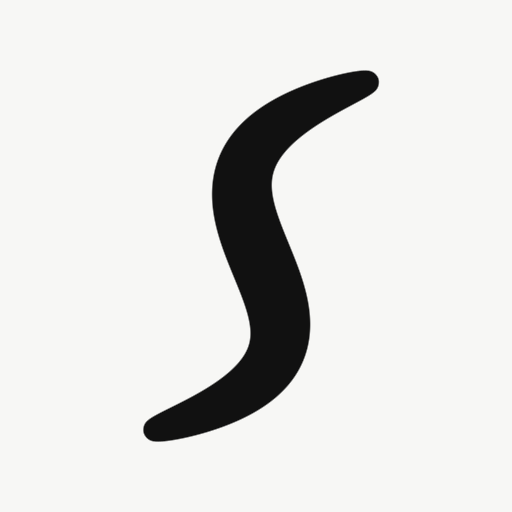
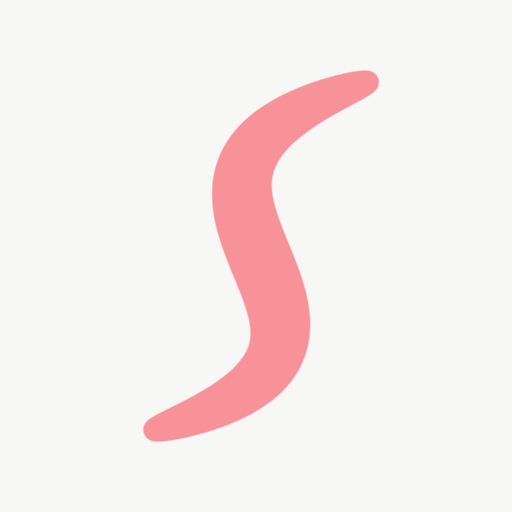
アクセントをサーモンピンクにする
- 塗り用 #fca9a2 と文字用 #d4707a の2段階に分けた。淡いサーモンをそのまま
  白地の13px文字に使うと読めないため、文字だけ濃い方を使う
- 煉瓦色に寄らないよう、候補5色を実際に並べて比較してから決めた
- 「達成」の緑もくすませて、サーモンと並んでも騒がしくないようにした
- アプリアイコンもサーモンに

Claude-Session: https://claude.ai/code/session_01U1GppSiCoRYH4e3neKKSCn

Changed region(s): [[0.2812, 0.125, 0.75, 0.875]]

diff --git a/css/styles.css b/css/styles.css
@@ -23,10 +23,11 @@
   --accent-dim: #c9c9c3;
   --cta-bg: #111111;
   --cta-ink: #ffffff;
-  --brand: #ff4fb8;           /* 小さく差す色 */
-  --mint: #17c79a;
+  --brand: #fca9a2;           /* 塗りに使う淡いサーモンピンク */
+  --brand-ink: #d4707a;       /* 文字に使う濃いめ。淡い方だと白地の13px文字が読めないため */
+  --mint: #52a98d;
   --sun: #ffcc3d;
-  --good: #17c79a;
+  --good: #52a98d;
   --danger: #f2544b;
   --radius: 22px;
   --radius-sm: 14px;
@@ -51,9 +52,10 @@ body[data-theme='dark'] {
   --accent-dim: #3a3a3a;
   --cta-bg: #ffffff;
   --cta-ink: #000000;
-  --brand: #ff4fb8;
-  --mint: #3ddad0;
-  --good: #3ddad0;
+  --brand: #fcaaa3;
+  --brand-ink: #fcaaa3;       /* 黒地なら淡いままで読める */
+  --mint: #5fc9a7;
+  --good: #5fc9a7;
 }
 
 /* claude.ai 寄りの紙っぽい配色も残してある */
@@ -73,6 +75,7 @@ body[data-theme='paper'] {
   --cta-bg: #c96442;
   --cta-ink: #fffefb;
   --brand: #c96442;
+  --brand-ink: #c96442;
   --mint: #4f7d5e;
   --sun: #c08a2e;
   --good: #4f7d5e;
@@ -152,11 +155,12 @@ a { color: var(--accent); }
   font-size: 12px; color: var(--muted);
 }
 .pill { background: var(--surface-2); }
-.pill.done { color: var(--accent-ink); background: var(--brand); font-weight: 700; }
+.pill.done { color: #fff; background: var(--brand-ink); font-weight: 700; }
 
 .streak-dots { display: flex; gap: 4px; margin-top: 12px; }
 .dot { width: 100%; height: 6px; border-radius: 3px; background: var(--surface-2); }
 .dot.on { background: var(--brand); }
+.streak-flame { filter: saturate(.85); }
 
 .focus-card { background: var(--surface); }
 .focus-title { font-size: 21px; font-weight: 600; margin-top: 4px; font-family: var(--font-display); }
@@ -182,7 +186,7 @@ a { color: var(--accent); }
 .menu-title { font-size: 17px; font-weight: 700; font-family: var(--font-display); }
 .menu-sub { font-size: 13px; margin-top: 2px; }
 .menu-steps { margin-top: 6px; }
-.menu-time { margin-top: 8px; font-size: 13px; color: var(--brand); }
+.menu-time { margin-top: 8px; font-size: 13px; color: var(--brand-ink); font-weight: 600; }
 
 .chips { display: flex; flex-wrap: wrap; gap: 8px; }
 .chip {
@@ -374,7 +378,7 @@ a { color: var(--accent); }
 
 .level-chip {
   display: flex; flex-direction: column; align-items: flex-end; line-height: 1.2;
-  font-weight: 700; color: var(--brand); font-family: var(--font-display);
+  font-weight: 700; color: var(--brand-ink); font-family: var(--font-display);
 }
 
 .xp-row { display: flex; align-items: center; gap: 10px; margin-top: 10px; }

diff --git a/README.md b/README.md
@@ -262,8 +262,10 @@ XPは履歴から毎回計算し直している（練習1分=10XP / その日の
 
 - **ほぼ白の地**に、**ふちの無い薄いグレーのカード**（半径22px）。縦線も影も引かない
 - **押してほしいものは黒いピル**で示す。「きょうの練習」と、選んでいるタブがそれ
-- 色は**小さい要素にだけ差す**（レベル、所要時間、達成のしるし）。
-  面をグレースケールに寄せているのは、隣に出るお題の写真の色と喧嘩させないため
+- 色は**サーモンピンクを小さい要素にだけ差す**（レベル、所要時間、達成のしるし）。
+  面をグレースケールに寄せているのは、隣に出るお題の写真の色と喧嘩させないため。
+  塗り用（`#fca9a2`）と文字用（`#d4707a`）の2段階を持たせてあるのは、
+  淡いサーモンを白地の13px文字に使うと読めないため
 - 書体はシステムの丸ゴシック（`ui-rounded`）。Web フォントを読まないのは、
   オフラインでも同じ見た目で立ち上がってほしいから
 - 下に**セグメント切替**（ホーム / きろく）
